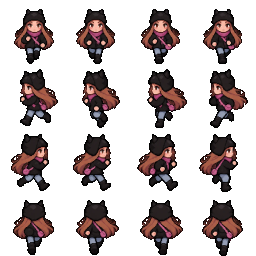
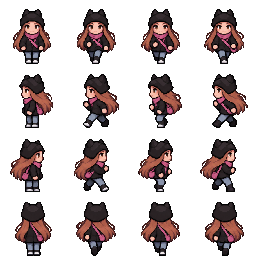
feat: доработать пиксельный спрайт и ходьбу Ксюши

diff --git a/src/game/scenes/LevelScene.ts b/src/game/scenes/LevelScene.ts
@@ -155,14 +155,17 @@ export class LevelScene extends Scene
     placeKsyusha (p: Vec2): void
     {
         this.cancelWalk();
+        this.stopBob();
+        this.applyTexture();
         this.pos = { x: p.x, y: p.y };
         this.trail = [{ ...this.pos }];
         this.syncSprite();
     }
 
-    setFacing (f: Facing): void
+    setFacing (f: Facing, dir: MoveDir = f.startsWith('u') ? 'u' : 'd'): void
     {
         this.facing = f;
+        this.moveDir = dir;
         this.applyTexture();
     }
 
@@ -193,6 +196,7 @@ export class LevelScene extends Scene
         this.drawDebug();
         if (path.length === 0) {
             this.stopBob();
+            this.applyTexture();
             return Promise.resolve();
         }
         return new Promise<void>((resolve, reject) => {
@@ -984,8 +988,7 @@ export class LevelScene extends Scene
         const dx = p.x - this.pos.x;
         const dy = p.y - this.pos.y;
         if (dx === 0 && dy === 0) return;
-        this.moveDir = moveDirFromVector(dx, dy);
-        this.setFacing(facingFromVector(dx, dy));
+        this.setFacing(facingFromVector(dx, dy), moveDirFromVector(dx, dy));
     }
 
     private applyTexture ()
@@ -993,11 +996,22 @@ export class LevelScene extends Scene
         if (!this.ksyusha) return;
         const up = this.facing === 'ur' || this.facing === 'ul';
         const walk = this.walkAnim();
-        const key = walk?.key ?? this.ksyushaKey(up, this.pose);
-        showVisual(this.ksyusha, key);
+        const poseKey = this.ksyushaKey(up, this.pose);
+        const directionalIdle = `ksyusha_${this.charStyle()}_${this.moveDir}_idle`;
+        const useDirectionalIdle = isPlaceholder(poseKey) && !this.anims.exists(poseKey) && this.anims.exists(directionalIdle);
+        const key = walk?.key ?? (useDirectionalIdle ? directionalIdle : poseKey);
+        const { currentAnim, currentFrame, isPlaying } = this.ksyusha.anims;
+        // All four pixel-art directions use the same step phases.
+        const pixelWalk = /^ksyusha_w1_[dulr]_walk$/;
+        if (isPlaying && currentAnim && currentFrame && currentAnim.key !== key &&
+            pixelWalk.test(currentAnim.key) && pixelWalk.test(key)) {
+            this.ksyusha.play({ key, startFrame: currentFrame.index - 1 });
+        } else {
+            showVisual(this.ksyusha, key);
+        }
         this.ksyusha.setScale(this.spriteScale(key));
-        // left poses mirror the right ones; walk animations say themselves
-        this.ksyusha.setFlipX(walk ? walk.flipX : this.facing === 'dl' || this.facing === 'ul');
+        // Directional frames already face the right way; diagonal poses are mirrored.
+        this.ksyusha.setFlipX(walk?.flipX ?? (!useDirectionalIdle && (this.facing === 'dl' || this.facing === 'ul')));
     }
 
     /**

diff --git a/tests/e2e/smoke.spec.ts b/tests/e2e/smoke.spec.ts
@@ -1,4 +1,5 @@
 import { test, expect } from '@playwright/test';
+import type { LevelScene } from '../../src/game/scenes/LevelScene';
 import { expectNoErrors, openGame, startNewGame } from './helpers';
 
 test('menu opens without console errors; «Начать» → L01; the intro can be skipped', async ({ page }) => {
@@ -10,5 +11,23 @@ test('menu opens without console errors; «Начать» → L01; the intro can
     expect(st?.level).toBe('L01');
     expect(st?.busy).toBe(false);
     await expect(page.locator('[data-test=inventory]')).toBeVisible();
+
+    const sprite = () => page.evaluate(() => {
+        const scene = (window as Window & { __levelScene?: LevelScene }).__levelScene;
+        const ksyusha = scene?.ksyusha;
+        return ksyusha && {
+            texture: ksyusha.texture.key,
+            animation: ksyusha.anims.currentAnim?.key,
+            frame: Number(ksyusha.frame.name),
+            scale: ksyusha.scaleX,
+            originY: ksyusha.originY,
+        };
+    });
+    const pixelSprite = { texture: 'ksyusha_w1', scale: 4, originY: 1 };
+    await expect.poll(sprite).toMatchObject(pixelSprite);
+    await game.click(900, 850);
+    await expect.poll(sprite).toMatchObject({ ...pixelSprite, animation: 'ksyusha_w1_r_walk' });
+    await expect.poll(async () => (await sprite())?.frame).toBeGreaterThan(8);
+    await expect.poll(sprite).toEqual({ ...pixelSprite, animation: 'ksyusha_w1_r_idle', frame: 8 });
     expectNoErrors(game.errors);
 });
